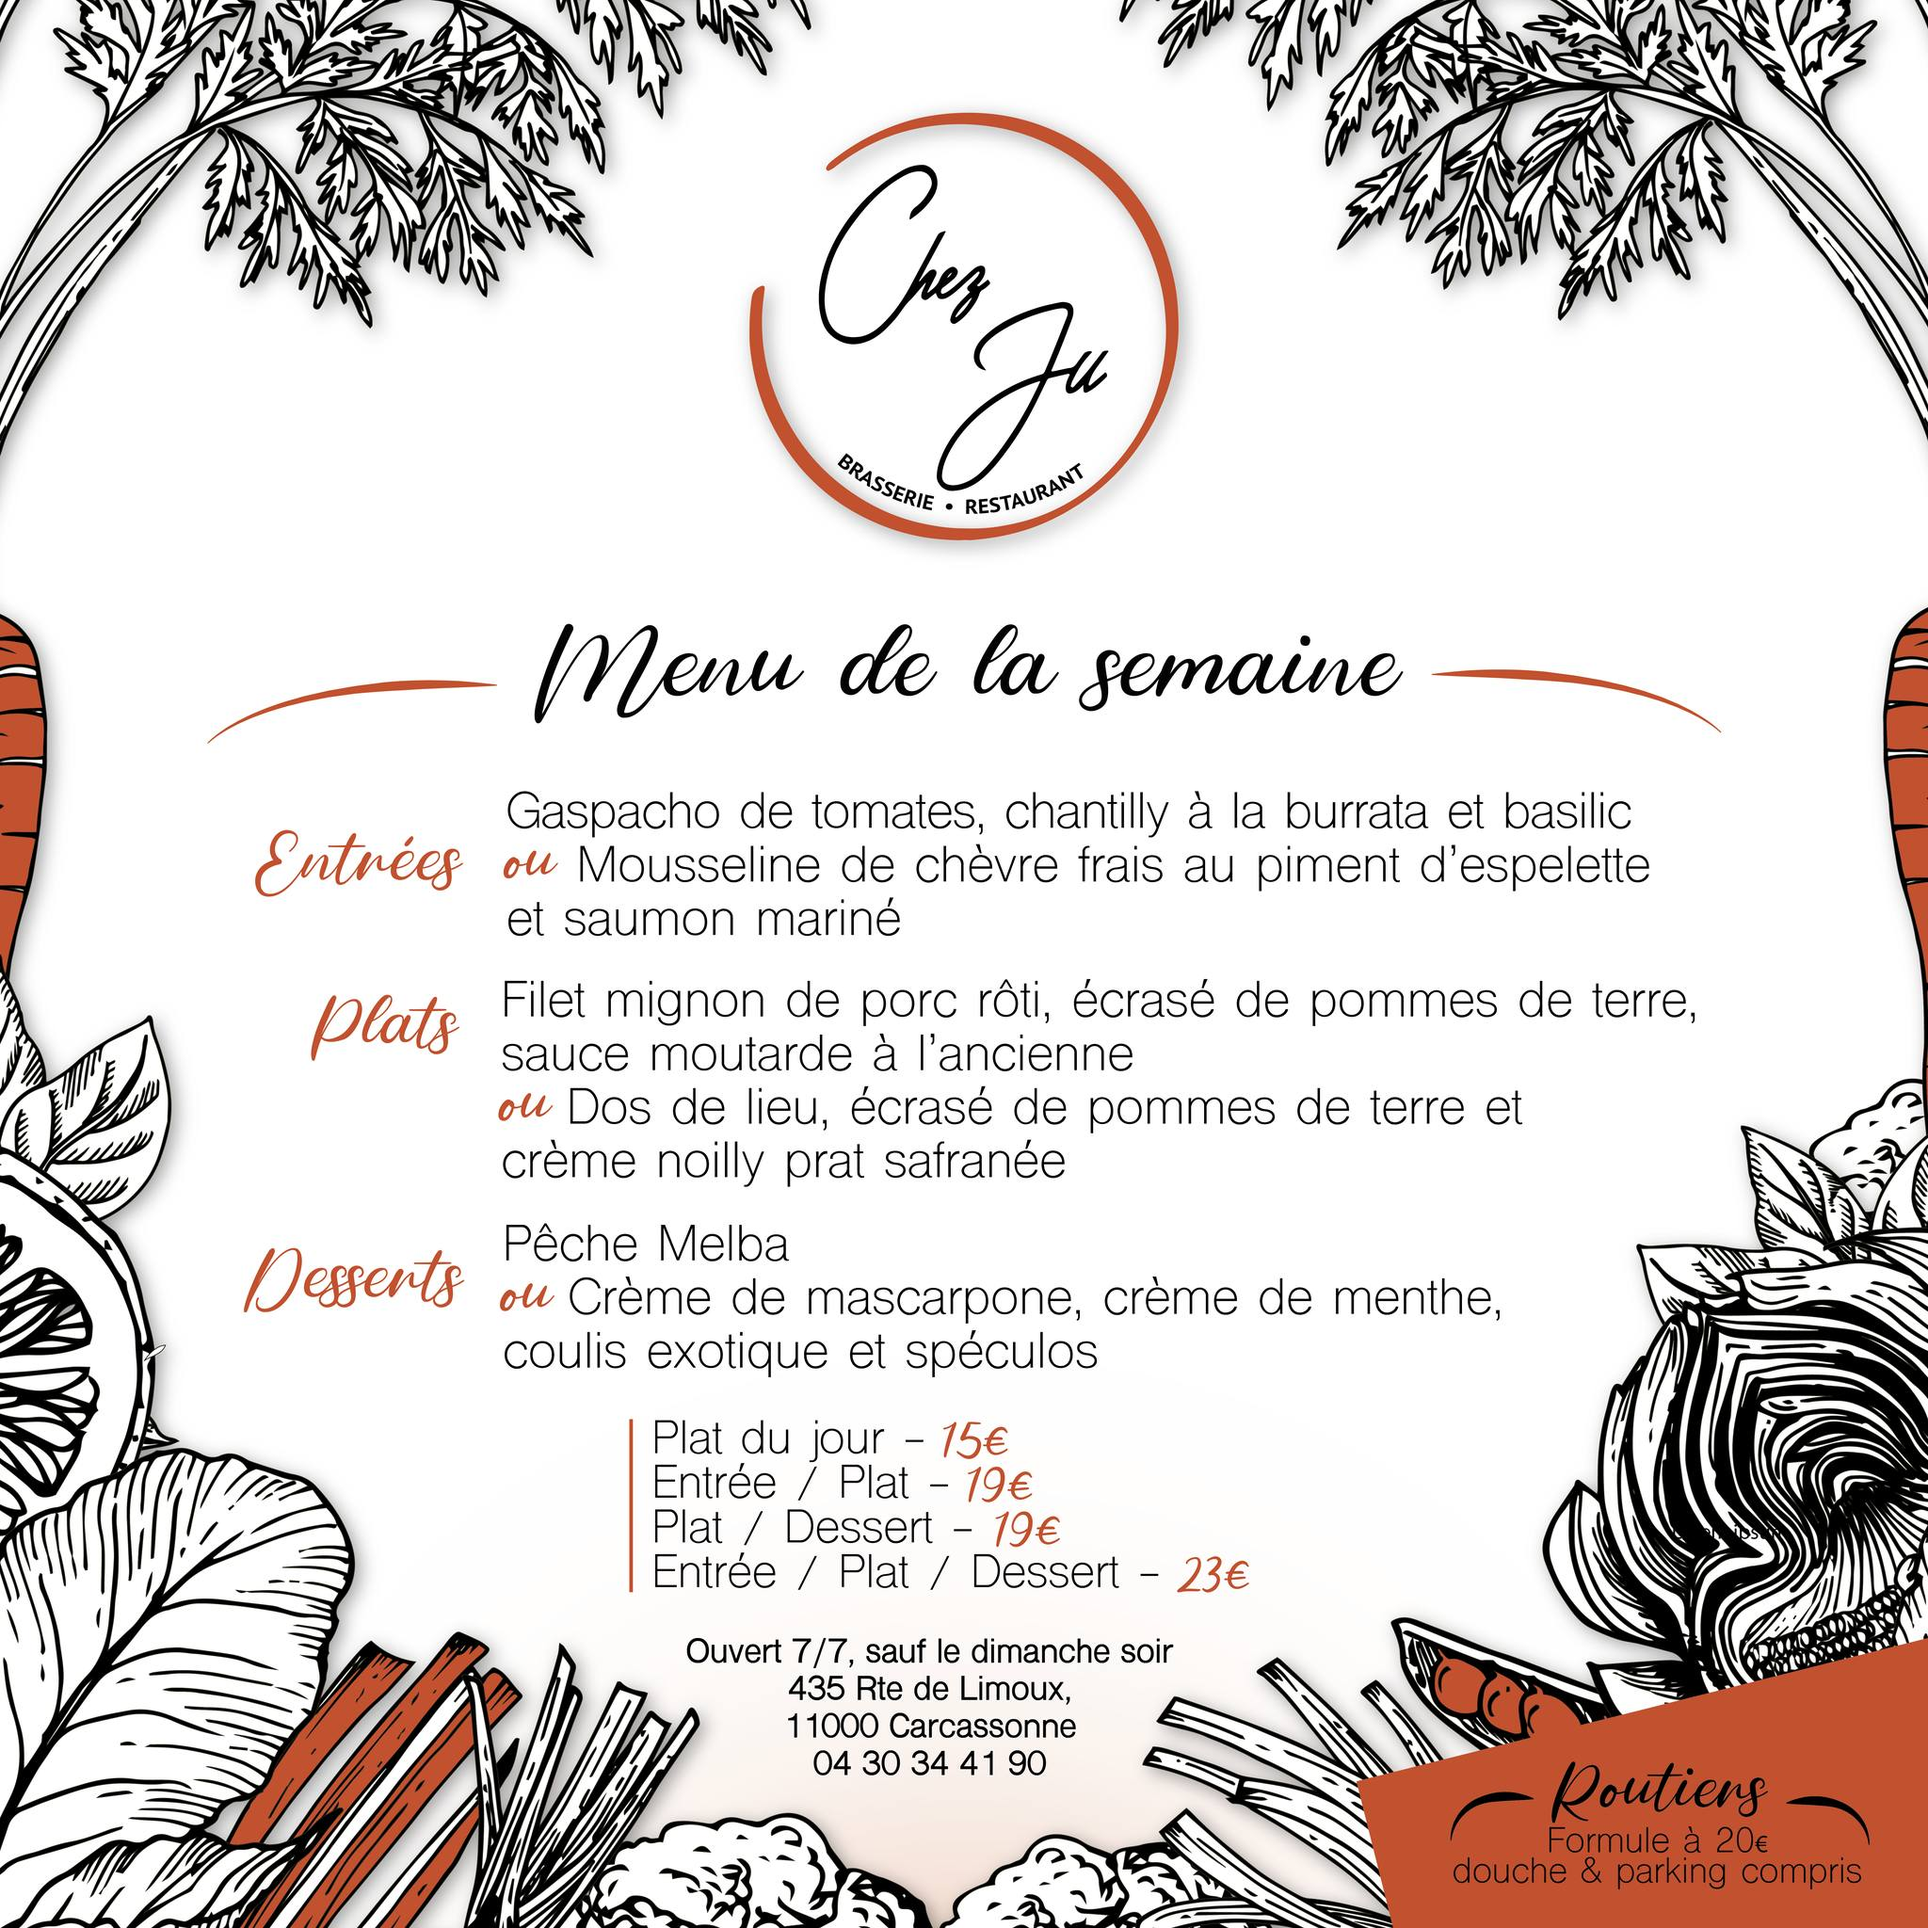
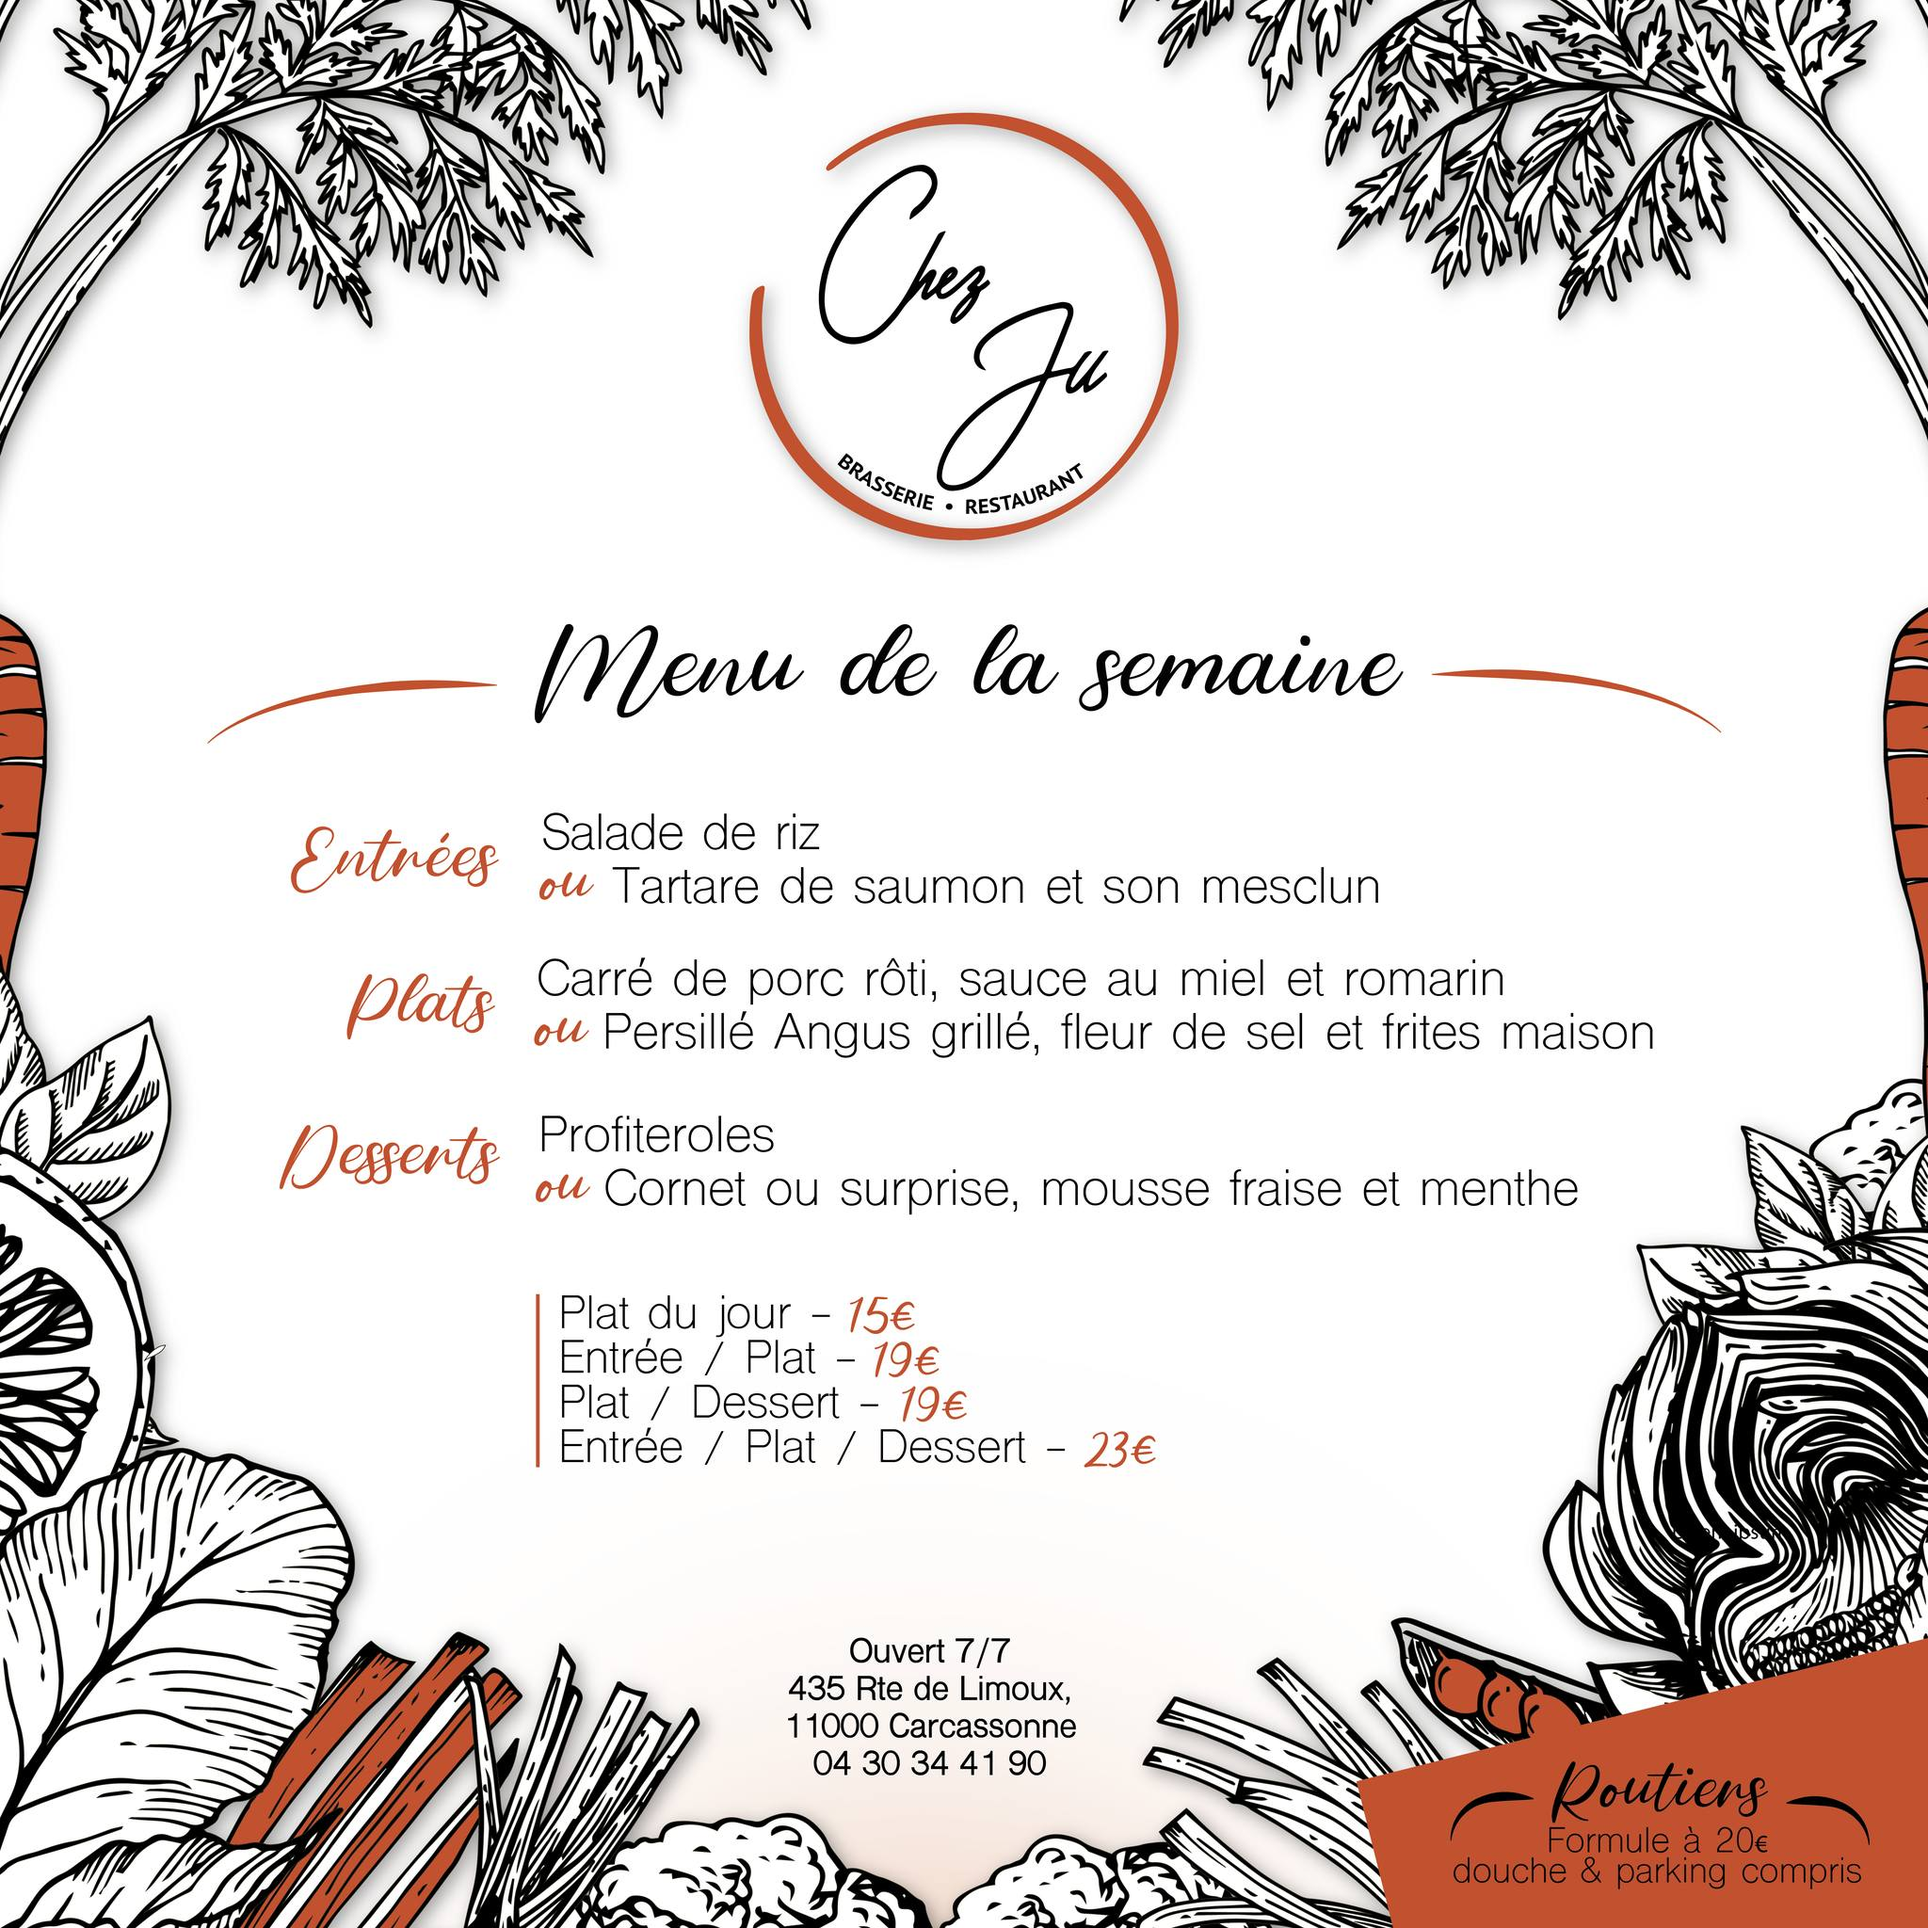
update: revise Instagram posts with new URLs and descriptions for June 9-13 and summer soirée

diff --git a/components/home/InstagramFeed.vue b/components/home/InstagramFeed.vue
@@ -112,16 +112,16 @@ const instagramPosts = ref<InstagramPost[]>([
   {
     id: '2',
     imageUrl: '/images/instagram/menu_semaine.jpg',
-    postUrl: 'https://www.instagram.com/p/DKZDNEpCCDK/',
+    postUrl: 'https://www.instagram.com/p/DKpfON_CYBo/',
     title: 'Menu de la semaine',
-    description: 'Du lundi 02 juin au vendredi 06 juin'
+    description: 'Du lundi 09 juin au vendredi 13 juin'
   },
   {
     id: '3',
-    imageUrl: '/images/instagram/saint_valentin.jpg',
-    postUrl: 'https://www.instagram.com/p/DExcRqEBDZj/',
-    title: 'Menu spéciale Saint Valentin ✨',
-    description: 'Animation au piano par Gabriel'
+    imageUrl: '/images/instagram/soiree_ete.webp',
+    postUrl: 'https://www.instagram.com/p/DKsFnQJoUa3/',
+    title: "Première soirée de l'été ☀",
+    description: 'Animation musicale avec le DJ Bob Dassin, tapas, brasero, cocktails' 
   }
 ])
 
